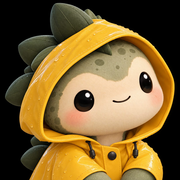
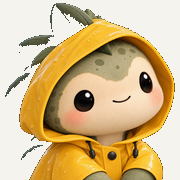
polish(web): a calmer surface, and a `/` palette for the composer
The interactive controls lose their outlines: the `1px solid` border the
buttons carried is deleted app-wide in favour of a soft tinted fill off the
theme tokens — primary, secondary, danger, allow/deny, the model pill, the
suggestion cards, the user's own bubble — and the responsive hamburger is
reset like its siblings instead of rendering as the user agent's button.
Sections are separated by spacing rather than rules: the panel heads, the
sticky save footer and the list rows lose their borders, and the page
heading comes down to the type scale the rest of the app uses.

Typing `/` opens a palette of the commands the gateways share, filtered as
you type and chosen with Enter or Tab, so the slash commands are
discoverable rather than memorized. The favicons are keyed to transparency
and the apple-touch-icon composited on the brand cream, because iOS paints
black behind transparency.

diff --git a/web/src/styles.css b/web/src/styles.css
@@ -89,8 +89,8 @@ button:focus-visible, input:focus-visible, textarea:focus-visible, select:focus-
 .brand-name { font-size: 17px; font-weight: 600; letter-spacing: -.01em; line-height: 1.1; }
 .sidebar-pad { padding-inline: 14px; }
 .sidebar-controls { display: flex; align-items: center; gap: 8px; margin-top: 12px; }
-.new-chat { display: grid; width: 40px; height: 40px; flex: none; place-items: center; border: 1px solid var(--border); border-radius: 12px; background: var(--surface); color: var(--fg-2); transition: background var(--motion-fast), border-color var(--motion-fast); }
-.new-chat:hover { background: var(--bg); border-color: var(--meta); }
+.new-chat { display: grid; width: 40px; height: 40px; flex: none; place-items: center; border: 0; border-radius: 12px; background: var(--surface); color: var(--fg-2); transition: background var(--motion-fast); }
+.new-chat:hover { background: var(--border-soft); }
 .sidebar-search { position: relative; display: flex; flex: 1; min-width: 0; align-items: center; }
 .sidebar-search svg { position: absolute; inset-inline-start: 11px; color: var(--muted); pointer-events: none; }
 .sidebar-search input { width: 100%; min-height: 40px; border: 1px solid var(--border); border-radius: 12px; background: var(--surface); padding: 9px 10px 9px 34px; font-size: 13px; }
@@ -101,9 +101,7 @@ button:focus-visible, input:focus-visible, textarea:focus-visible, select:focus-
 .section-label { padding: 14px 8px 6px; color: var(--muted); font-size: 11px; font-weight: 500; letter-spacing: .06em; text-transform: uppercase; }
 .session-row { display: flex; align-items: center; gap: 9px; width: 100%; min-height: 44px; margin: 2px 0; border: 0; border-radius: 10px; background: transparent; padding: 8px 10px; color: var(--fg-2); text-align: start; transition: background var(--motion-fast) var(--ease-standard); }
 .session-row:hover { background: var(--surface); }
-.session-row > svg { flex: none; color: var(--muted); }
 .session-row.active { background: var(--surface); color: var(--fg); font-weight: 500; }
-.session-row.active > svg { color: var(--fg-2); }
 .session-content { display: flex; flex: 1; min-width: 0; flex-direction: column; gap: 3px; }
 .session-title, .session-preview { overflow: hidden; text-overflow: ellipsis; white-space: nowrap; }
 .session-title { font-size: 13px; line-height: 1.35; }
@@ -121,7 +119,7 @@ button:focus-visible, input:focus-visible, textarea:focus-visible, select:focus-
 .back-button:hover { background: var(--surface); color: var(--fg); }
 .back-chevron { transform: rotate(180deg); }
 .studio-nav-heading { padding: 16px 10px 10px; }
-.studio-nav-heading h2 { font-size: 20px; font-weight: 600; letter-spacing: -.01em; }
+.studio-nav-heading h2 { font-size: 17px; font-weight: 600; letter-spacing: -.01em; }
 .studio-nav-heading p { margin-top: 4px; color: var(--muted); font-size: 12px; }
 .studio-nav { display: flex; flex: 1; min-height: 0; flex-direction: column; gap: 2px; overflow: auto; padding: 4px 0 12px; }
 .studio-nav-item { display: flex; align-items: center; gap: 11px; width: 100%; min-height: 44px; border-radius: 10px; padding: 9px 11px; color: var(--fg-2); font-size: 13px; text-align: start; }
@@ -133,7 +131,7 @@ button:focus-visible, input:focus-visible, textarea:focus-visible, select:focus-
 
 .main { grid-column: 2; display: flex; min-width: 0; min-height: 0; flex-direction: column; background: var(--bg); }
 .topbar { z-index: 5; display: flex; align-items: center; gap: 12px; min-height: 62px; background: var(--bg); padding: 10px 20px; }
-.mobile-menu { display: none; width: 40px; height: 40px; place-items: center; border-radius: 10px; color: var(--fg-2); }
+.mobile-menu { display: none; width: 40px; height: 40px; flex: none; place-items: center; border: 0; border-radius: 10px; background: transparent; padding: 0; color: var(--fg-2); transition: background var(--motion-fast); }
 .mobile-menu:hover { background: var(--surface); }
 .topbar-title { flex: 1; min-width: 0; }
 .topbar-title h1 { overflow: hidden; font-size: 15px; font-weight: 600; text-overflow: ellipsis; white-space: nowrap; }
@@ -150,8 +148,8 @@ button:focus-visible, input:focus-visible, textarea:focus-visible, select:focus-
 .eyebrow { color: var(--accent); font-size: 11px; font-weight: 600; letter-spacing: .06em; text-transform: uppercase; }
 .empty-state h1 { max-width: 16ch; margin-top: 0; font-family: var(--font-display); font-size: clamp(32px, 4.5vw, 42px); font-weight: 400; letter-spacing: -.02em; line-height: 1.14; }
 .suggestion-grid { display: grid; width: min(660px, 100%); grid-template-columns: repeat(2, minmax(0, 1fr)); gap: 12px; margin-top: 34px; }
-.suggestion { display: flex; min-height: 70px; align-items: center; gap: 12px; border: 1px solid var(--border-soft); border-radius: 16px; background: var(--surface); padding: 14px 15px; text-align: start; transition: border-color var(--motion-fast), box-shadow var(--motion-fast), transform var(--motion-fast) var(--ease-standard); }
-.suggestion:hover { transform: translateY(-1px); border-color: var(--border); box-shadow: var(--shadow); }
+.suggestion { display: flex; min-height: 70px; align-items: center; gap: 12px; border: 0; border-radius: 16px; background: var(--surface); padding: 14px 15px; box-shadow: var(--shadow-sm); text-align: start; transition: box-shadow var(--motion-fast), transform var(--motion-fast) var(--ease-standard); }
+.suggestion:hover { transform: translateY(-1px); box-shadow: var(--shadow); }
 .suggestion > svg:first-child { flex: none; color: var(--fg-2); }
 .suggestion-grid .suggestion > span { display: flex; flex: 1; flex-direction: column; gap: 3px; }
 .suggestion strong { font-size: 13px; font-weight: 500; line-height: 1.35; }
@@ -160,7 +158,7 @@ button:focus-visible, input:focus-visible, textarea:focus-visible, select:focus-
 .message { display: flex; max-width: 772px; gap: 14px; margin: 0 auto; padding: 13px 0; }
 .message.user { justify-content: flex-end; }
 .message-content { display: flex; flex: 1; min-width: 0; flex-direction: column; gap: 10px; }
-.message.user .message-content { flex: initial; max-width: 82%; border: 1px solid var(--border-soft); border-radius: 16px; background: var(--surface); padding: 11px 15px; }
+.message.user .message-content { flex: initial; max-width: 82%; border: 0; border-radius: 16px; background: var(--surface); padding: 11px 15px; }
 .message-status { margin-top: 3px; color: var(--muted); font-size: 11px; }
 .message-prose { max-width: 70ch; color: var(--fg-2); font-size: 14px; line-height: 1.65; overflow-wrap: anywhere; }
 .message-prose p { margin: 0; }
@@ -189,14 +187,14 @@ button:focus-visible, input:focus-visible, textarea:focus-visible, select:focus-
 .notice button { margin-inline-start: auto; }
 
 .composer-shell { width: 100%; background: var(--bg); padding: 12px 28px 16px; }
-.composer-box { width: min(772px, 100%); margin: 0 auto; border: 1px solid var(--border); border-radius: 16px; background: var(--surface); transition: border-color var(--motion-fast), box-shadow var(--motion-fast); }
+.composer-box { position: relative; width: min(772px, 100%); margin: 0 auto; border: 1px solid var(--border); border-radius: 16px; background: var(--surface); transition: border-color var(--motion-fast), box-shadow var(--motion-fast); }
 .composer-box:focus-within { border-color: var(--accent); box-shadow: var(--focus-ring); }
 .composer-box textarea { display: block; width: 100%; min-height: 46px; max-height: 180px; resize: none; border: 0; outline: 0; background: none; padding: 13px 16px 2px; font-size: 14px; line-height: 1.55; }
 .composer-box textarea::placeholder { color: var(--muted); }
 .composer-toolbar { display: flex; min-height: 48px; align-items: center; gap: 8px; padding: 5px 9px 9px 14px; }
 .composer-model-wrap { position: relative; }
-.composer-model { display: flex; align-items: center; gap: 7px; max-width: 240px; border: 1px solid var(--border); border-radius: 999px; background: var(--bg); padding: 5px 10px; font-size: 12px; font-weight: 500; transition: background var(--motion-fast), border-color var(--motion-fast); }
-.composer-model:hover { background: var(--surface-warm); border-color: var(--meta); }
+.composer-model { display: flex; align-items: center; gap: 7px; max-width: 240px; border: 0; border-radius: 999px; background: var(--bg); padding: 5px 10px; font-size: 12px; font-weight: 500; transition: background var(--motion-fast); }
+.composer-model:hover { background: var(--surface-warm); }
 .composer-model-name { overflow: hidden; text-overflow: ellipsis; white-space: nowrap; }
 .model-menu { position: absolute; z-index: 30; bottom: calc(100% + 8px); left: 0; display: flex; width: min(320px, 78vw); max-height: 320px; flex-direction: column; gap: 2px; overflow: auto; border: 1px solid var(--border); border-radius: 14px; background: var(--surface); box-shadow: var(--shadow); padding: 6px; }
 .model-filter { position: sticky; top: 0; min-height: 34px; margin-bottom: 4px; border: 1px solid var(--border); border-radius: 9px; background: var(--bg); padding: 6px 9px; font-size: 12px; }
@@ -216,9 +214,6 @@ button:focus-visible, input:focus-visible, textarea:focus-visible, select:focus-
 .send-button.stop { border: 1px solid var(--border); background: var(--surface); color: var(--fg); box-shadow: none; }
 .send-button.stop:hover:not(:disabled) { background: var(--surface-warm); transform: none; }
 .composer-disclaimer { width: min(772px, 100%); margin: 9px auto 0; color: var(--meta); font-size: 11px; text-align: center; }
-.stream-bar { display: flex; width: min(772px, 100%); min-height: 38px; align-items: center; gap: 9px; margin: 0 auto 8px; color: var(--muted); font-size: 13px; }
-.pulse { width: 8px; height: 8px; flex: none; border-radius: 50%; background: var(--accent); animation: pulse 1.4s infinite; }
-@keyframes pulse { 50% { opacity: .35; transform: scale(.8); } }
 .queue-list { width: min(772px, 100%); margin: 0 auto; }
 .queue-chip { display: flex; min-height: 34px; align-items: center; gap: 8px; margin-bottom: 6px; border: 1px solid var(--border-soft); border-radius: 10px; background: var(--surface-warm); padding: 6px 11px; color: var(--muted); font-size: 12px; }
 
@@ -231,28 +226,27 @@ button:focus-visible, input:focus-visible, textarea:focus-visible, select:focus-
 .approval .approval-title p { margin-top: 2px; color: var(--muted); font-size: 13px; line-height: 1.5; }
 .approval-command { overflow: auto; max-height: 180px; margin: 14px 0 0; border: 1px solid var(--border-soft); border-radius: 10px; background: var(--surface-warm); padding: 11px 13px; color: var(--fg); font: 12px/1.55 var(--font-mono); white-space: pre-wrap; word-break: break-word; }
 .approval-actions { display: flex; align-items: center; gap: 9px; margin-top: 14px; flex-wrap: wrap; }
-.allow-button, .deny-button { display: inline-flex; min-height: 38px; align-items: center; justify-content: center; gap: 7px; border: 1px solid var(--border); border-radius: 12px; background: var(--surface); padding: 7px 13px; font-size: 13px; font-weight: 500; }
-.allow-button { border-color: var(--accent); background: var(--accent); color: var(--accent-on); }
+.allow-button, .deny-button { display: inline-flex; min-height: 38px; align-items: center; justify-content: center; gap: 7px; border: 0; border-radius: 12px; background: var(--surface-warm); padding: 7px 13px; font-size: 13px; font-weight: 500; transition: background var(--motion-fast); }
+.allow-button { background: var(--accent); color: var(--accent-on); }
 .allow-button:hover { background: var(--accent-hover); }
-.deny-button:hover { background: var(--surface-warm); }
+.deny-button:hover { background: var(--border-soft); }
 .approval-time { display: flex; align-items: center; gap: 6px; margin-inline-start: auto; color: var(--muted); font: 12px var(--font-mono); }
 
 .studio-workspace { flex: 1; min-height: 0; overflow: auto; }
 .studio-inner { width: min(820px, 100%); margin: 0 auto; padding: 34px 32px 96px; }
 .studio-heading { display: flex; align-items: flex-start; justify-content: space-between; gap: 20px; margin-bottom: 26px; }
-.studio-heading h1 { margin-top: 6px; font-size: 28px; font-weight: 600; letter-spacing: -.01em; }
-.studio-heading > div > p:last-child { max-width: 60ch; margin-top: 8px; color: var(--muted); font-size: 13px; line-height: 1.6; }
-.btn-secondary { display: inline-flex; min-height: 40px; align-items: center; gap: 7px; border: 1px solid var(--border); border-radius: 11px; background: var(--surface); padding: 8px 14px; color: var(--fg-2); font-size: 13px; font-weight: 500; white-space: nowrap; box-shadow: var(--shadow-sm); transition: background var(--motion-fast), border-color var(--motion-fast); }
-.btn-secondary:hover { border-color: var(--meta); background: var(--surface-warm); }
-.studio-section { width: 100%; margin-bottom: 18px; border: 1px solid var(--border-soft); border-radius: 16px; background: var(--surface); box-shadow: var(--shadow-sm); }
+.studio-heading h1 { margin-top: 6px; font-size: 22px; font-weight: 600; letter-spacing: -.01em; }
+.studio-heading > div > p:last-child { max-width: 60ch; margin-top: 6px; color: var(--muted); font-size: 13px; line-height: 1.6; }
+.btn-secondary { display: inline-flex; min-height: 40px; align-items: center; gap: 7px; border: 0; border-radius: 11px; background: var(--surface-warm); padding: 8px 14px; color: var(--fg-2); font-size: 13px; font-weight: 500; white-space: nowrap; transition: background var(--motion-fast); }
+.btn-secondary:hover { background: var(--border-soft); }
+.studio-section { width: 100%; margin-bottom: 16px; border: 0; border-radius: 16px; background: var(--surface); box-shadow: var(--shadow-sm); }
 .studio-section[hidden] { display: none; }
-.studio-section .panel-head { border-bottom: 1px solid var(--border-soft); padding: 16px 18px 14px; }
+.studio-section .panel-head { padding: 20px 20px 2px; }
 .studio-section .panel-head h2 { font-size: 15px; font-weight: 600; }
 .studio-section .panel-head p { margin-top: 3px; color: var(--muted); font-size: 13px; line-height: 1.5; }
 .studio-section .panel-body > p { margin-top: 10px; color: var(--muted); font-size: 13px; line-height: 1.55; }
 .studio-section .panel-body > p em { color: var(--fg-2); font-family: var(--font-mono); font-size: 12px; font-style: normal; }
-.studio-section .panel-body { padding: 10px 18px 16px; }
-.studio-section .panel-body.flush { padding: 0; }
+.studio-section .panel-body { padding: 14px 20px 18px; }
 .studio-section .panel-body > h3.section-label { padding-top: 12px; }
 .form-grid { display: grid; grid-template-columns: repeat(2, minmax(0, 1fr)); gap: 14px; }
 .field { display: grid; min-width: 0; gap: 6px; }
@@ -265,28 +259,56 @@ button:focus-visible, input:focus-visible, textarea:focus-visible, select:focus-
 .check-row { display: flex; min-height: 44px; align-items: center; gap: 9px; color: var(--fg-2); font-size: 13px; }
 .check-row input { width: 16px; height: 16px; accent-color: var(--accent); }
 .section-label { padding: 14px 0 6px; color: var(--muted); font-size: 11px; font-weight: 500; letter-spacing: .06em; text-transform: uppercase; }
-.secret-row, .skill-row { display: grid; grid-template-columns: minmax(0, 1fr) minmax(120px, 1fr) minmax(160px, 1.2fr) auto; align-items: center; gap: 9px; border-bottom: 1px solid var(--border-soft); padding: 10px 0; }
-.secret-row:last-child, .skill-row:last-child { border-bottom: 0; }
+.secret-row, .skill-row { display: grid; grid-template-columns: minmax(0, 1fr) minmax(120px, 1fr) minmax(160px, 1.2fr) auto; align-items: center; gap: 9px; padding: 11px 0; }
 .secret-row input { min-height: 40px; border: 1px solid var(--border); border-radius: 11px; background: var(--field); padding: 8px 11px; font-size: 13px; box-shadow: var(--shadow-sm); transition: border-color var(--motion-fast), box-shadow var(--motion-fast); }
 .secret-row input:focus { outline: 0; border-color: var(--accent); box-shadow: var(--focus-ring); }
 .secret-name { font-size: 13px; font-weight: 500; }
 .secret-state { color: var(--muted); font: 11px var(--font-mono); }
 .studio-section .list-empty { padding: 18px; color: var(--muted); font-size: 13px; text-align: center; }
-.studio-save { position: sticky; z-index: 4; bottom: 0; display: flex; align-items: center; justify-content: space-between; gap: 12px; margin: 18px -8px 0; border-top: 1px solid var(--border); background: color-mix(in oklab, var(--bg) 96%, transparent); padding: 12px 8px; }
+.studio-save { position: sticky; z-index: 4; bottom: 0; display: flex; align-items: center; justify-content: space-between; gap: 12px; margin: 18px -8px 0; background: color-mix(in oklab, var(--bg) 96%, transparent); padding: 12px 8px; }
 .save-context { color: var(--muted); font-size: 12px; }
 .save-actions { display: flex; gap: 9px; }
-.button { display: inline-flex; min-height: 40px; align-items: center; justify-content: center; gap: 7px; border: 1px solid var(--border); border-radius: 11px; background: var(--surface); padding: 8px 14px; color: var(--fg-2); font-size: 13px; font-weight: 500; box-shadow: var(--shadow-sm); transition: background var(--motion-fast), border-color var(--motion-fast), box-shadow var(--motion-fast), transform var(--motion-fast) var(--ease-standard); }
-.button:hover { border-color: var(--meta); background: var(--surface-warm); }
+.button { display: inline-flex; min-height: 40px; align-items: center; justify-content: center; gap: 7px; border: 0; border-radius: 11px; background: var(--surface-warm); padding: 8px 14px; color: var(--fg-2); font-size: 13px; font-weight: 500; transition: background var(--motion-fast), transform var(--motion-fast) var(--ease-standard); }
+.button:hover { background: var(--border-soft); }
 .button:active { transform: translateY(1px); }
-.button:disabled { box-shadow: none; transform: none; }
-.button.primary { border-color: var(--accent); background: var(--accent); color: var(--accent-on); box-shadow: 0 2px 10px color-mix(in oklab, var(--accent) 24%, transparent); }
-.button.primary:hover { border-color: var(--accent-hover); background: var(--accent-hover); }
-.button.danger { border-color: color-mix(in oklab, var(--danger) 30%, var(--border)); color: var(--danger); }
-.button.danger:hover { border-color: color-mix(in oklab, var(--danger) 45%, var(--border)); background: color-mix(in oklab, var(--danger) 8%, var(--surface)); }
+.button:disabled { transform: none; }
+.button.primary { background: var(--accent); color: var(--accent-on); box-shadow: 0 2px 10px color-mix(in oklab, var(--accent) 24%, transparent); }
+.button.primary:hover { background: var(--accent-hover); }
+.button.danger { background: color-mix(in oklab, var(--danger) 11%, var(--surface)); color: var(--danger); }
+.button.danger:hover { background: color-mix(in oklab, var(--danger) 18%, var(--surface)); }
+.icon-button { display: grid; width: 28px; height: 28px; flex: none; place-items: center; border: 0; border-radius: 8px; background: transparent; color: currentColor; transition: background var(--motion-fast); }
+.icon-button:hover { background: color-mix(in oklab, currentColor 14%, transparent); }
 .notice { margin: 0 0 14px; border: 1px solid var(--border); border-radius: 12px; padding: 11px 13px; font-size: 13px; }
 .notice.error { border-color: color-mix(in oklab, var(--danger) 30%, var(--border)); background: color-mix(in oklab, var(--danger) 7%, var(--surface)); color: var(--danger); }
 .notice.success { border-color: color-mix(in oklab, var(--success) 30%, var(--border)); background: color-mix(in oklab, var(--success) 7%, var(--surface)); color: var(--success); }
 .restart-notice { border-color: color-mix(in oklab, var(--warn) 30%, var(--border)); background: color-mix(in oklab, var(--warn) 7%, var(--surface)); color: var(--fg-2); }
+
+/* The `/` palette, the same popup shape as the model menu above the box. */
+.command-menu { position: absolute; z-index: 30; bottom: calc(100% + 8px); left: 0; right: 0; display: flex; max-height: 320px; flex-direction: column; gap: 2px; overflow: auto; border: 1px solid var(--border); border-radius: 14px; background: var(--surface); box-shadow: var(--shadow); padding: 6px; }
+.command-option { display: flex; min-height: 40px; align-items: baseline; gap: 10px; width: 100%; border: 0; border-radius: 9px; background: transparent; padding: 8px 10px; text-align: start; }
+.command-option.active { background: var(--surface-warm); }
+.command-name { flex: none; color: var(--fg); font: 12px var(--font-mono); }
+.command-option small { overflow: hidden; color: var(--muted); font-size: 11px; text-overflow: ellipsis; white-space: nowrap; }
+.composer-hint { display: inline-flex; min-height: 30px; align-items: center; gap: 5px; border: 0; border-radius: 999px; background: var(--bg); padding: 5px 10px; color: var(--muted); font-size: 12px; transition: background var(--motion-fast); }
+.composer-hint:hover { background: var(--surface-warm); color: var(--fg-2); }
+
+/* A long setup job — a download, a profile copy, the embedding engine. */
+.job-panel { margin: 0 0 14px; border: 1px solid var(--border); border-radius: 12px; background: var(--surface); padding: 11px 13px; }
+.job-panel.error { border-color: color-mix(in oklab, var(--danger) 30%, var(--border)); }
+.job-head { display: flex; align-items: center; justify-content: space-between; gap: 12px; color: var(--fg-2); font-size: 13px; font-weight: 500; }
+.job-error { margin-top: 6px; color: var(--danger); font-size: 12px; }
+.job-log { overflow: auto; max-height: 180px; margin-top: 8px; border: 1px solid var(--border-soft); border-radius: 10px; background: var(--surface-warm); padding: 9px 11px; color: var(--muted); font: 11px/1.5 var(--font-mono); white-space: pre-wrap; word-break: break-word; }
+.job-log.error { color: var(--danger); }
+
+/* A list row with its own actions: routines, notes, browsers, sessions. */
+.entry-row { display: flex; align-items: center; justify-content: space-between; gap: 12px; padding: 11px 0; border-bottom: 1px solid var(--border-soft); }
+.entry-row:last-child { border-bottom: 0; }
+.entry-row > div:first-child { min-width: 0; }
+.entry-row .secret-state { overflow-wrap: anywhere; }
+.row-actions { display: flex; flex: none; flex-wrap: wrap; align-items: center; justify-content: flex-end; gap: 6px; }
+.button-row { display: flex; flex-wrap: wrap; gap: 8px; margin-top: 8px; }
+.panel-note { margin-top: 10px; color: var(--muted); font-size: 12px; line-height: 1.55; }
+.mono { color: var(--fg-2); font-family: var(--font-mono); }
 
 @media (max-width: 900px) {
   .app-shell { grid-template-columns: minmax(0, 1fr); }
@@ -347,6 +369,8 @@ button:focus-visible, input:focus-visible, textarea:focus-visible, select:focus-
 .message:not(.is-loaded) .tool-line,
 .message:not(.is-loaded) .reasoning,
 .approval,
+.command-menu,
+.job-panel,
 .studio-section:not([hidden]),
 .empty-state,
 .suggestion-grid .suggestion {

diff --git a/web/src/chat/Composer.tsx b/web/src/chat/Composer.tsx
@@ -1,4 +1,4 @@
-import { useEffect, useRef, useState } from 'react'
+import { useEffect, useMemo, useRef, useState, type KeyboardEvent as ReactKeyboardEvent } from 'react'
 import { api } from '../lib/api.js'
 import { shortModel } from '../../../src/gateways/model-label.ts'
 import { Icon } from '../ui/Icons.js'
@@ -15,6 +15,29 @@ interface Props {
 
 type ModelInfo = { id: string; name?: string }
 
+/** What `/` offers: the names the gateways share, with what each one does. */
+const COMMANDS: Array<{ name: string; hint: string }> = [
+  { name: 'help', hint: 'the commands, and what they do' },
+  { name: 'status', hint: 'permission mode, display and effort' },
+  { name: 'mode', hint: 'permission mode: ask | auto | yolo' },
+  { name: 'yolo', hint: 'toggle yolo mode' },
+  { name: 'tools', hint: 'how much of a tool call to show: full | name | off' },
+  { name: 'thinking', hint: "show the model's reasoning: on | off" },
+  { name: 'effort', hint: 'how hard the model thinks: low | medium | high' },
+  { name: 'new', hint: 'start a new session' },
+  { name: 'sessions', hint: 'the saved sessions' },
+  { name: 'resume', hint: 'switch to a session: /resume <id>' },
+  { name: 'stats', hint: 'numbers for the current session' },
+  { name: 'compact', hint: 'fold the oldest turns into the summary now' },
+  { name: 'export', hint: 'write this conversation to a file: /export [md|json]' },
+  { name: 'skills', hint: 'the skills installed, and where they live' },
+  { name: 'memory', hint: 'what Milo keeps: /memory [forget <id>]' },
+  { name: 'clear', hint: 'forget this conversation' },
+  { name: 'stop', hint: 'stop the turn running now' },
+  { name: 'steer', hint: 'hand text to the turn running now' },
+  { name: 'queue', hint: 'say it as its own turn, after this one' },
+]
+
 export function Composer({ busy, queued, provider, model, onSend, onStop, onModelChange }: Props) {
   const ref = useRef<HTMLTextAreaElement>(null)
   const wrap = useRef<HTMLDivElement>(null)
@@ -24,6 +47,19 @@ export function Composer({ busy, queued, provider, model, onSend, onStop, onMode
   const [filter, setFilter] = useState('')
   const [loading, setLoading] = useState(false)
   const [error, setError] = useState('')
+  const [highlight, setHighlight] = useState(0)
+  /** The draft Escape was pressed on; the palette stays closed for that text alone. */
+  const [dismissed, setDismissed] = useState<string | null>(null)
+
+  const palette = useMemo(() => {
+    if (!draft.startsWith('/') || draft.includes(' ') || dismissed === draft) return []
+    const query = draft.slice(1).toLowerCase()
+    return COMMANDS.filter((command) => command.name.startsWith(query)).slice(0, 8)
+  }, [draft, dismissed])
+
+  useEffect(() => {
+    if (highlight >= palette.length) setHighlight(0)
+  }, [palette.length, highlight])
 
   useEffect(() => {
     if (!menu) return
@@ -46,6 +82,47 @@ export function Composer({ busy, queued, provider, model, onSend, onStop, onMode
     if (!text) return
     onSend(text, intent)
     setDraft('')
+  }
+
+  function choose(name: string): void {
+    const next = `/${name} `
+    setDraft(next)
+    setDismissed(next)
+    ref.current?.focus()
+  }
+
+  function key(event: ReactKeyboardEvent<HTMLTextAreaElement>): void {
+    if (palette.length > 0) {
+      if (event.key === 'ArrowDown') {
+        event.preventDefault()
+        setHighlight((current) => (current + 1) % palette.length)
+        return
+      }
+      if (event.key === 'ArrowUp') {
+        event.preventDefault()
+        setHighlight((current) => (current - 1 + palette.length) % palette.length)
+        return
+      }
+      if (event.key === 'Tab' || (event.key === 'Enter' && !event.shiftKey)) {
+        event.preventDefault()
+        choose(palette[highlight]!.name)
+        return
+      }
+      if (event.key === 'Escape') {
+        event.preventDefault()
+        setDismissed(draft)
+        return
+      }
+    }
+    if (event.key === 'Escape' && busy) {
+      event.preventDefault()
+      onStop()
+      return
+    }
+    if (event.key === 'Enter' && !event.shiftKey) {
+      event.preventDefault()
+      submit(busy && (event.ctrlKey || event.metaKey) ? 'steer' : 'queue')
+    }
   }
 
   async function toggleMenu(): Promise<void> {
@@ -76,9 +153,11 @@ export function Composer({ busy, queued, provider, model, onSend, onStop, onMode
 
   return (
     <div className="composer-shell">
-      {busy && <div className="stream-bar"><span className="pulse" /><span>Milo is replying…</span></div>}
       <div className="queue-list" aria-live="polite">{queued > 0 && <div className="queue-chip"><Icon name="history" size={14} /> {queued} {queued === 1 ? 'message queued' : 'messages queued'}</div>}</div>
       <div className="composer-box">
+        {palette.length > 0 && <div className="command-menu" role="listbox" aria-label="Commands">
+          {palette.map((command, index) => <button className={`command-option ${index === highlight ? 'active' : ''}`} type="button" role="option" aria-selected={index === highlight} key={command.name} onMouseEnter={() => setHighlight(index)} onClick={() => choose(command.name)}><code className="command-name">/{command.name}</code><small>{command.hint}</small></button>)}
+        </div>}
         <textarea
           ref={ref}
           aria-label="Message Milo"
@@ -86,16 +165,10 @@ export function Composer({ busy, queued, provider, model, onSend, onStop, onMode
           rows={1}
           value={draft}
           onChange={(event) => setDraft(event.target.value)}
+          onKeyDown={key}
           onInput={(event) => {
             event.currentTarget.style.height = 'auto'
             event.currentTarget.style.height = `${Math.min(event.currentTarget.scrollHeight, 180)}px`
-          }}
-          onKeyDown={(event) => {
-            if (event.key === 'Escape' && busy) { event.preventDefault(); onStop(); return }
-            if (event.key === 'Enter' && !event.shiftKey) {
-              event.preventDefault()
-              submit(busy && (event.ctrlKey || event.metaKey) ? 'steer' : 'queue')
-            }
           }}
         />
         <div className="composer-toolbar">
@@ -112,6 +185,9 @@ export function Composer({ busy, queued, provider, model, onSend, onStop, onMode
               {visible.map((item) => <button className={`model-option ${item.id === model ? 'active' : ''}`} type="button" role="option" aria-selected={item.id === model} key={item.id} onClick={() => pick(item.id)}><span className="model-option-id">{item.id}</span>{item.name ? <small>{item.name}</small> : null}</button>)}
             </div>}
           </div>
+          <button className="composer-hint" type="button" title="Commands" aria-label="Show commands" onClick={() => { setDraft('/'); setDismissed(null); ref.current?.focus() }}>
+            <code className="mono">/</code> commands
+          </button>
           <span className="composer-spacer" />
           {busy
             ? <button className="send-button stop" type="button" title="Stop (Esc)" aria-label="Stop Milo" onClick={onStop}><Icon name="stop" size={16} /></button>

diff --git a/web/src/ui/Icons.tsx b/web/src/ui/Icons.tsx
@@ -3,7 +3,6 @@ import type { SVGProps } from 'react'
 const paths: Record<string, React.ReactNode> = {
   plus: <><path d="M12 5v14M5 12h14" /></>,
   search: <><circle cx="11" cy="11" r="7" /><path d="m20 20-3.5-3.5" /></>,
-  sliders: <><path d="M4 7h16M4 12h16M4 17h16" /><circle cx="9" cy="7" r="1.9" /><circle cx="15" cy="12" r="1.9" /><circle cx="7" cy="17" r="1.9" /></>,
   send: <><path d="M21.5 2.5 11 13" /><path d="M21.5 2.5 15 21.5l-4-8.5-8.5-4Z" /></>,
   stop: <><rect x="7" y="7" width="10" height="10" rx="2" fill="currentColor" stroke="none" /></>,
   chevron: <><path d="m9 6 6 6-6 6" /></>,
@@ -24,6 +23,13 @@ const paths: Record<string, React.ReactNode> = {
   file: <><path d="M6 3h8l4 4v14H6zM14 3v4h4" /></>,
   terminal: <><rect x="4" y="5" width="16" height="14" rx="2" /><path d="m8 10 2.5 2.5L8 15m5 0h3" /></>,
   clock: <><circle cx="12" cy="12" r="9" /><path d="M12 7v5l3 2" /></>,
+  cpu: <><rect x="7" y="7" width="10" height="10" rx="2" /><path d="M10 2v3m4-3v3M10 19v3m4-3v3M2 10h3m-3 4h3m14-4h3m-3 4h3" /></>,
+  download: <><path d="M12 3v12m0 0 4-4m-4 4-4-4" /><path d="M4 19h16" /></>,
+  trash: <><path d="M4 7h16M10 4h4M9 7v12m6-12v12M6 7l1 13h10l1-13" /></>,
+  note: <><path d="M5 3h9l5 5v13H5zM14 3v5h5" /><path d="M9 13h6M9 17h4" /></>,
+  play: <><path d="M7 4.5v15l13-7.5Z" /></>,
+  repeat: <><path d="M4 11V9a4 4 0 0 1 4-4h9m0 0-3-3m3 3-3 3" /><path d="M20 13v2a4 4 0 0 1-4 4H7m0 0 3 3m-3-3 3-3" /></>,
+  globe: <><circle cx="12" cy="12" r="9" /><path d="M3 12h18M12 3c2.4 2.6 2.4 15.4 0 18M12 3c-2.4 2.6-2.4 15.4 0 18" /></>,
 }
 
 export function Icon({ name, size = 18, className = '', ...props }: SVGProps<SVGSVGElement> & { name: keyof typeof paths; size?: number }) {
